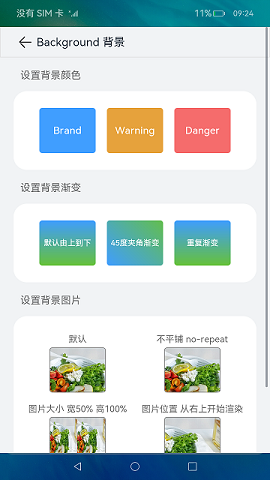
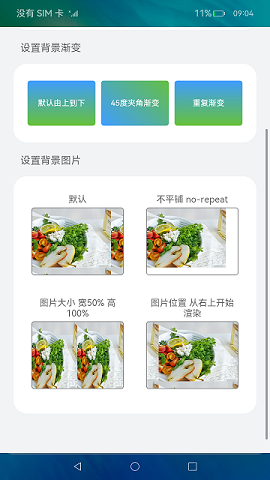
add background size border font

diff --git a/UI/JsComponentCollection/entry/src/main/js/MainAbility/pages/universals/properties/backgroundSample/backgroundSample.css b/UI/JsComponentCollection/entry/src/main/js/MainAbility/pages/universals/properties/backgroundSample/backgroundSample.css
@@ -38,10 +38,11 @@
   width: 100%;
   height: 140vp;
   align-items: center;
-  justify-content: center;
+  justify-content: space-between;
+  align-content: center;
   border-radius: 24vp;
   background-color: white;
-  padding: 0vp 24vp;
+  padding: 0vp 20vp;
 }
 
 .white-background-color-column {
@@ -57,8 +58,8 @@
   color: #99000000;
 }
 
-.left-box {
-  width: 100vp;
+.rect-box {
+  flex-weight: 1;
   height: 80vp;
   display: flex;
   flex-direction: column;
@@ -66,30 +67,8 @@
   align-items: center;
   color: #FFFFFF;
   border-radius: 5vp;
-}
-
-.center-box {
-  width: 100vp;
-  height: 80vp;
-  display: flex;
-  flex-direction: column;
-  justify-content: center;
-  align-items: center;
-  margin-left: 20vp;
-  color: #FFFFFF;
-  border-radius: 5vp;
-}
-
-.right-box {
-  width: 100vp;
-  height: 80vp;
-  display: flex;
-  flex-direction: column;
-  justify-content: center;
-  align-items: center;
-  margin-left: 20vp;
-  color: #FFFFFF;
-  border-radius: 5vp;
+  margin-left: 5vp;
+  margin-right: 5vp;
 }
 
 .smallFontSize {
@@ -105,11 +84,11 @@
 
 .background-img-box {
   display: flex;
-  width: 50%;
+  flex-weight: 1;
   flex-direction: column;
   justify-content: center;
   align-items: center;
-  margin-top: 20vp;
+  padding: 20vp;
 }
 
 .align-center {
@@ -117,8 +96,8 @@
 }
 
 .background-img-url {
-  width: 100vp;
-  height: 80vp;
+  width: 100%;
+  height: 120vp;
   display: flex;
   flex-direction: column;
   justify-content: center;
